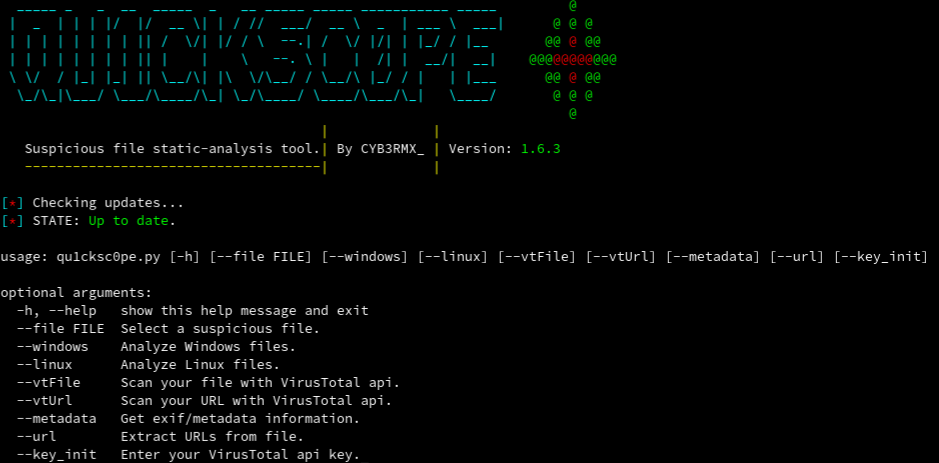
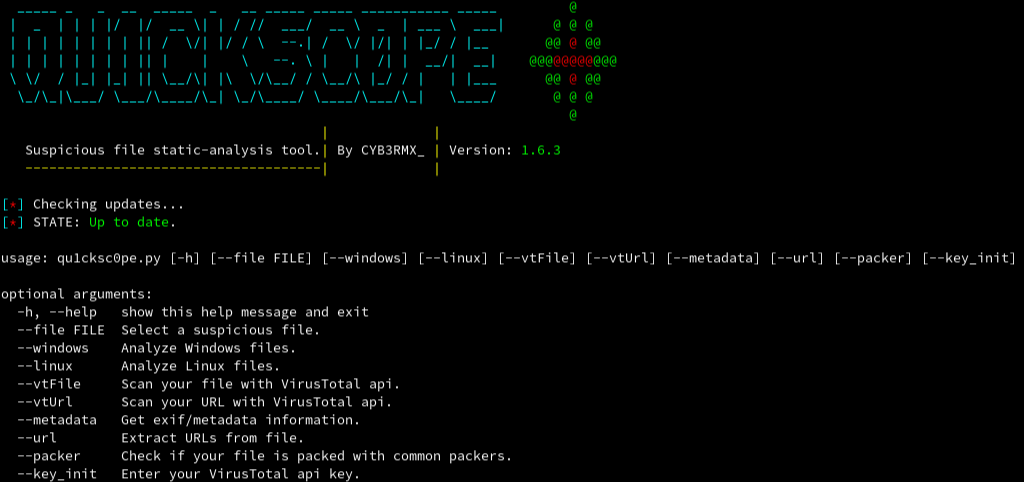
News 28/04/2020 18:38

diff --git a/qu1cksc0pe.py b/qu1cksc0pe.py
@@ -64,6 +64,7 @@ def scope():
     parser.add_argument("--vtUrl",required=False,help="Scan your URL with VirusTotal api.",action="store_true")
     parser.add_argument("--metadata",required=False,help="Get exif/metadata information.",action="store_true")
     parser.add_argument("--url",required=False,help="Extract URLs from file.",action="store_true")
+    parser.add_argument("--packer",required=False,help="Check if your file is packed with common packers.",action="store_true")
     parser.add_argument("--key_init",required=False,help="Enter your VirusTotal api key.",action="store_true")
     args = parser.parse_args()
     
@@ -171,6 +172,9 @@ def scope():
             command = "python3 VTwrapper.py {} --vtUrl".format(apik[0])
             os.system(command)
             print("+","-"*50,"+")
+    if args.packer:
+        command = "bash packerDetect.sh {}".format(args.file)
+        os.system(command)
     if args.linux:
         command = "readelf -a {} > elves.txt".format(args.file)
         os.system(command)

diff --git a/README.md b/README.md
@@ -10,7 +10,7 @@ Qu1cksc0pe aims to get even more information about suspicious files and helps to
 ![Screen](.Screenshot.png)
 
 # Updates
-- <b>28/04/2020</b>: Statistics upgraded.
+- <b>28/04/2020</b>: Statistics upgraded and added simple packer detector (--packer).
 
 # Scan arguments
 ## Windows Scan
@@ -36,4 +36,4 @@ Qu1cksc0pe aims to get even more information about suspicious files and helps to
 <b>Attention!</b><i> this argument needs binutils/readelf.</i><br>
 <i>To get binutils/readelf do this</i>: ```sudo apt-get install binutils``` </i><br>
 
-<b>Usage</b>: ```python3 qu1cksc0pe.py --file suspicious_elf_file --linux```<br>
+<b>Usage</b>: ```python3 qu1cksc0pe.py --file suspicious_file --linux```<br>
